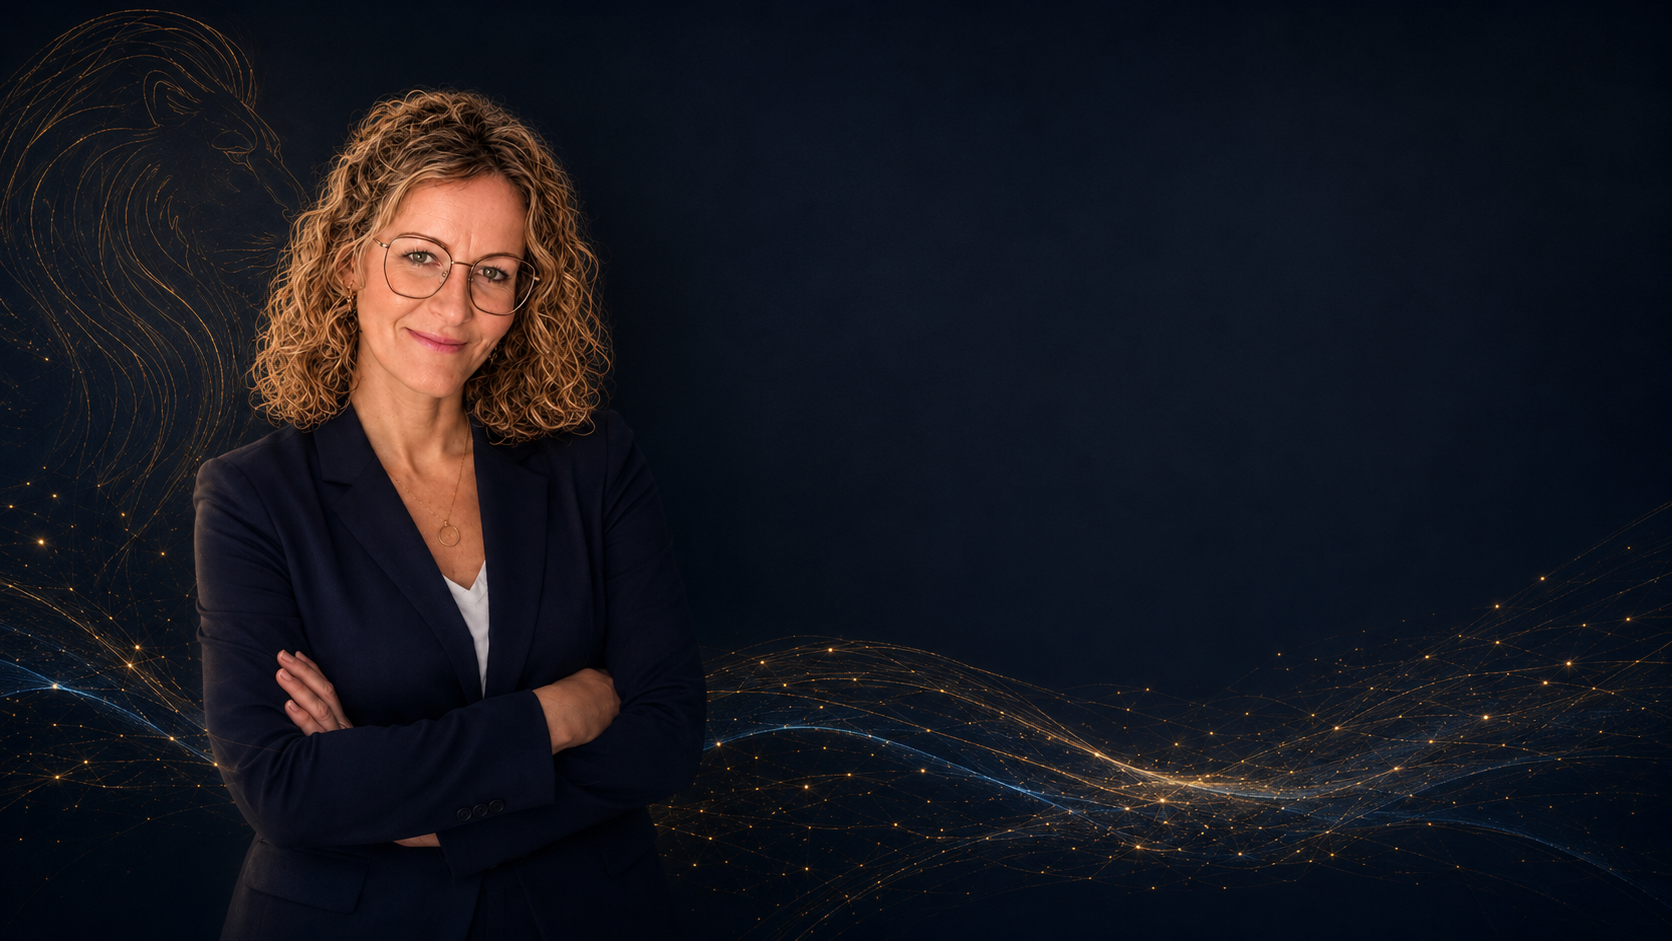
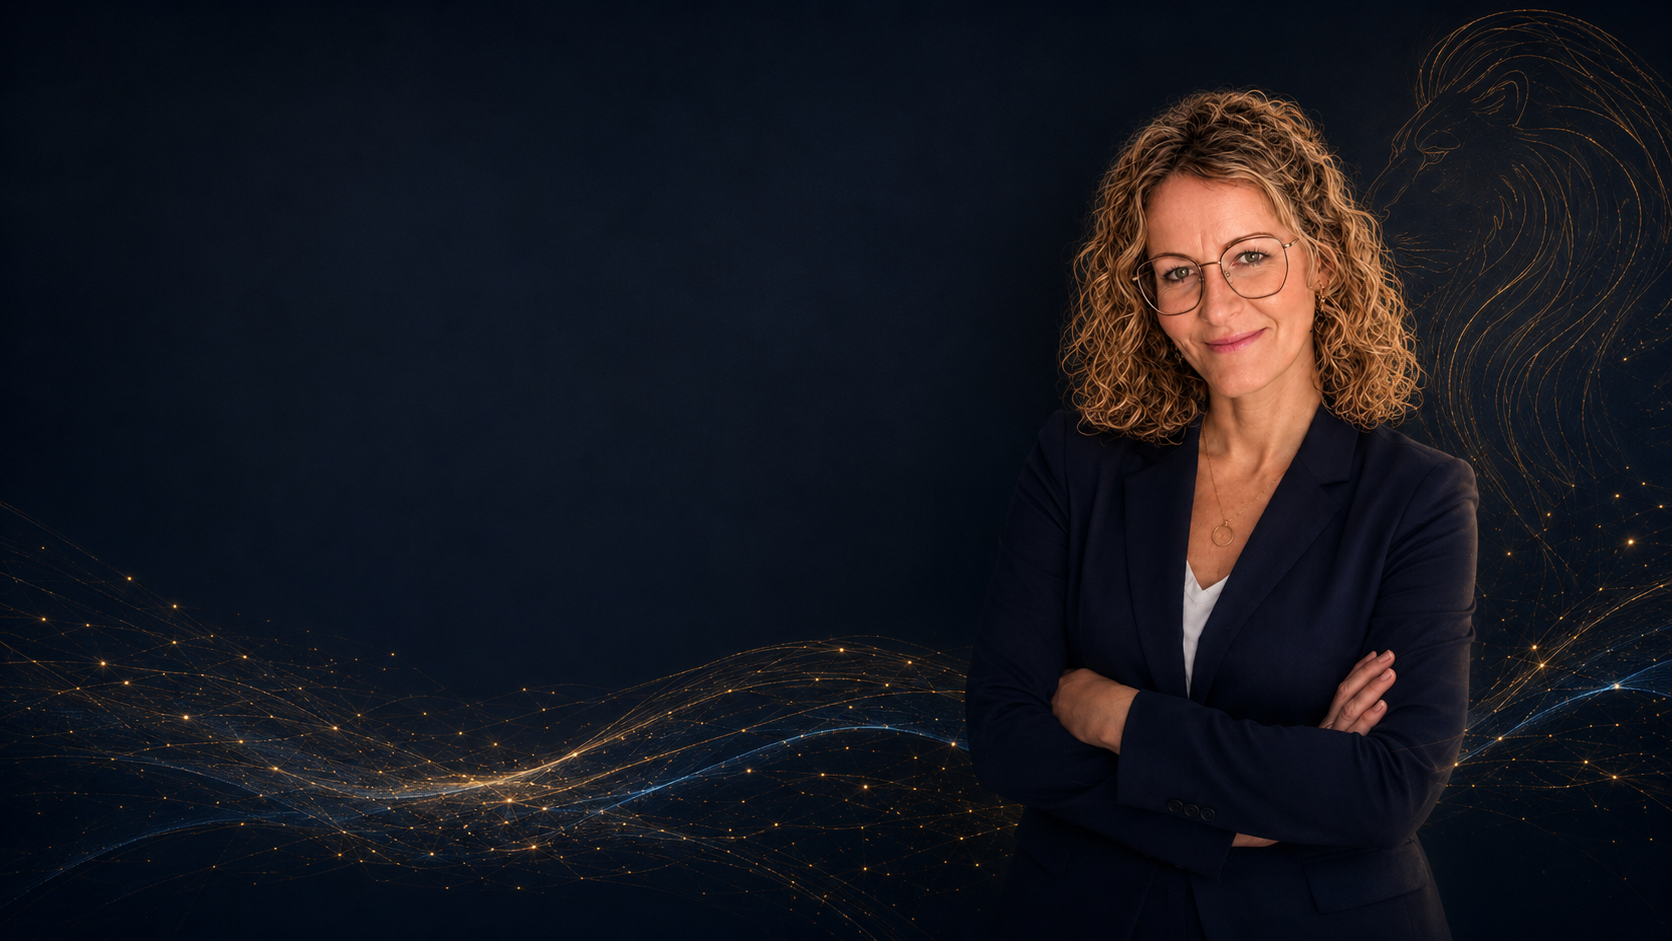
Hero-Bild spiegeln + Über-mich-Bild zuschneiden + Mobile-Lesbarkeit
Hero:
- Bild horizontal gespiegelt — Nastasja steht jetzt rechts im Bild (neben dem Text-Block links)
- Desktop: object-position 75% center für klare Rechts-Ausrichtung
- Mobile: Bild stark abgedunkelt (opacity 0.35) + Vollflächiger dunkler Verlauf
  (0.93 → 0.78) damit Text auf jedem Hintergrund lesbar bleibt

Über-mich:
- Bild auf 4:3 zugeschnitten (linker Rand 418px abgeschnitten)
- Passt jetzt exakt in den 4:3-Container ohne Crop-Position-Tricks

diff --git a/index.html b/index.html
@@ -219,11 +219,14 @@
   <section id="hero" class="relative min-h-screen flex items-center px-6 pt-[108px] md:pt-[140px] pb-20 overflow-hidden">
     <!-- Hero Background Image -->
     <div class="absolute inset-0 z-0">
-      <img src="assets/nastasja-hero.png" alt="Nastasja Kaufhold — Wirkungsarchitektin" class="w-full h-full object-cover" style="object-position: 70% center;">
-      <!-- Gradient overlay for text legibility (links dunkel, rechts transparent) -->
-      <div class="absolute inset-0 hidden lg:block" style="background: linear-gradient(to right, rgba(15,23,42,0.96) 0%, rgba(15,23,42,0.88) 35%, rgba(15,23,42,0.5) 60%, rgba(15,23,42,0.15) 100%);"></div>
-      <!-- Mobile: vertikaler Verlauf für Text-Lesbarkeit oben -->
-      <div class="absolute inset-0 lg:hidden" style="background: linear-gradient(to bottom, rgba(15,23,42,0.92) 0%, rgba(15,23,42,0.85) 50%, rgba(15,23,42,0.6) 100%);"></div>
+      <!-- Desktop: Bild rechts positioniert (Nastasja steht rechts neben dem Text) -->
+      <img src="assets/nastasja-hero.png" alt="Nastasja Kaufhold — Wirkungsarchitektin" class="hidden lg:block w-full h-full object-cover" style="object-position: 75% center;">
+      <!-- Mobile: Bild als dezenter Hintergrund, Position auf Gesicht -->
+      <img src="assets/nastasja-hero.png" alt="" aria-hidden="true" class="lg:hidden w-full h-full object-cover" style="object-position: 85% center; opacity: 0.35;">
+      <!-- Desktop-Overlay: links dunkel, rechts transparent -->
+      <div class="absolute inset-0 hidden lg:block" style="background: linear-gradient(to right, rgba(15,23,42,0.97) 0%, rgba(15,23,42,0.92) 30%, rgba(15,23,42,0.5) 58%, rgba(15,23,42,0.05) 100%);"></div>
+      <!-- Mobile-Overlay: komplett abgedunkelt für Text-Lesbarkeit -->
+      <div class="absolute inset-0 lg:hidden" style="background: linear-gradient(to bottom, rgba(15,23,42,0.93) 0%, rgba(15,23,42,0.88) 40%, rgba(15,23,42,0.78) 100%);"></div>
     </div>
 
     <div class="relative z-10 max-w-wide mx-auto w-full">
@@ -411,7 +414,7 @@
         <!-- Portrait (echtes Bild) -->
         <div class="md:col-span-2">
           <div class="rounded-xl overflow-hidden border border-gold/30" style="aspect-ratio: 4/3;">
-            <img src="assets/nastasja-ueber-mich.png" alt="Nastasja Kaufhold" class="w-full h-full object-cover" style="object-position: 60% center;">
+            <img src="assets/nastasja-ueber-mich.png" alt="Nastasja Kaufhold" class="w-full h-full object-cover" style="object-position: center;">
           </div>
           <p class="font-mono text-xs uppercase tracking-wider text-text-secondary/60 mt-3 text-center">
             Nastasja Kaufhold